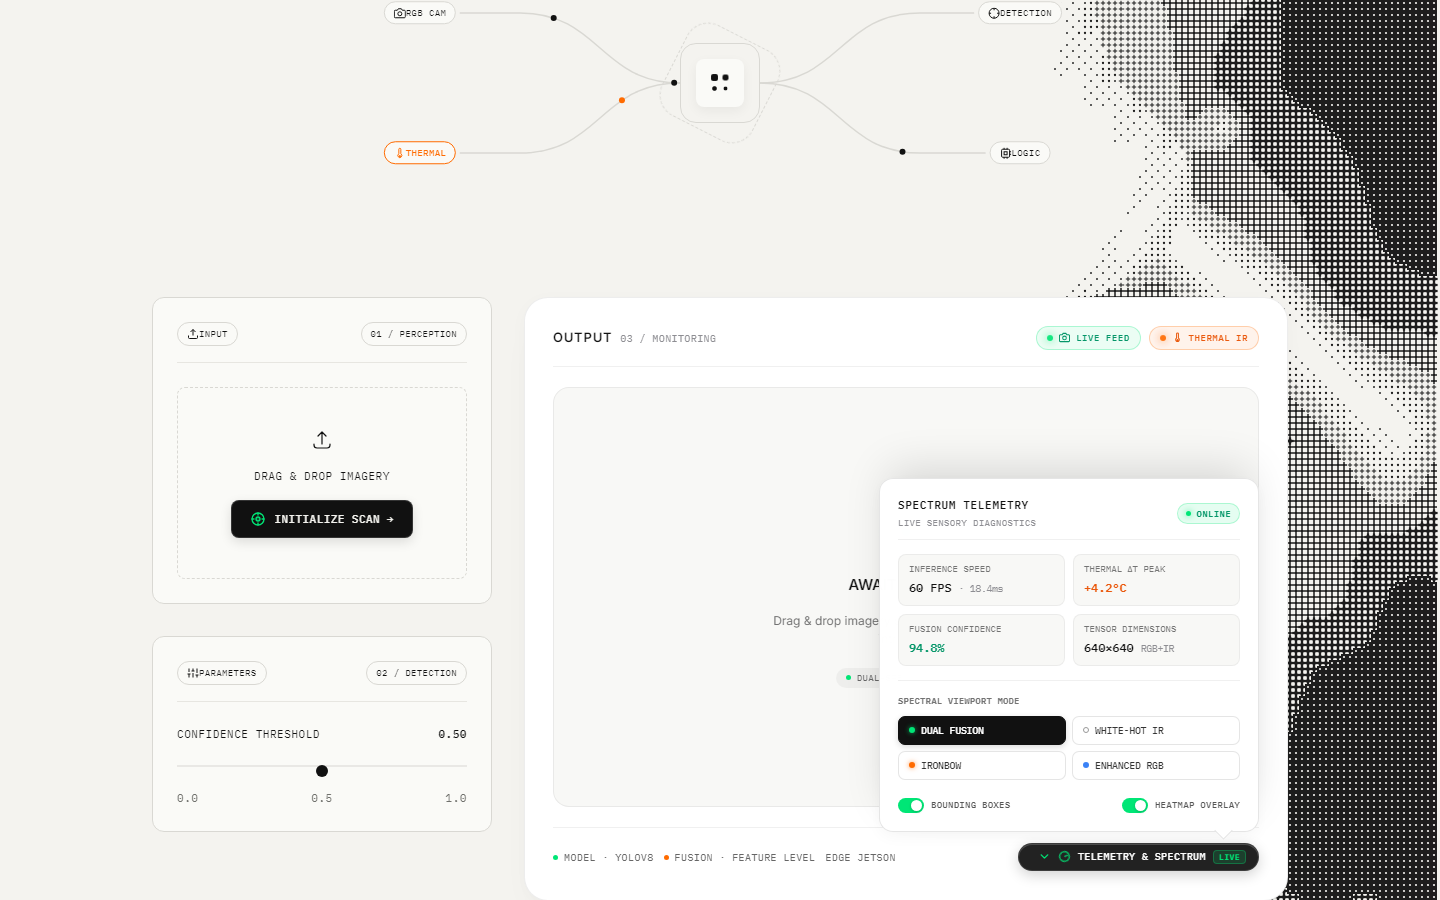
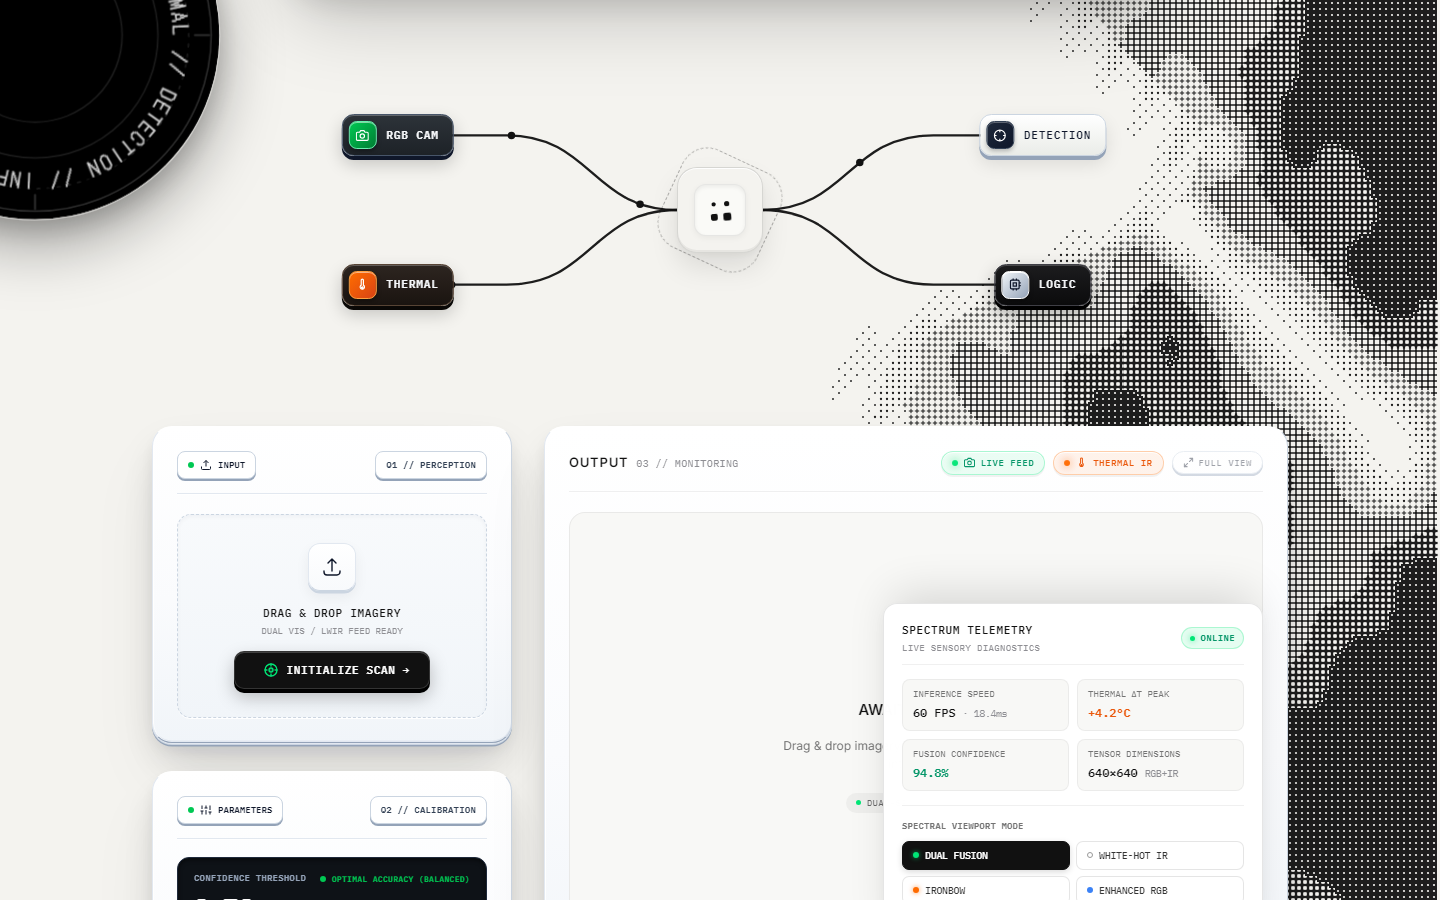
docs(readme): update UI/UX screenshots with current white glass design and responsive mobile views

diff --git a/README.md b/README.md
@@ -174,34 +174,47 @@ Evaluated on **Aug 31, 2026** using `python src/evaluation/evaluate_models.py`.
 
 ---
 
-## 📸 Visual Showcase & Interactive Terminal Screenshots
+## 📸 Visual Showcase & Multi-Platform UI/UX Terminal Views
 
+### 🖥 1. Production Desktop Edge Surveillance Terminal
 <p align="center">
-  <img src="data/samples/web_dashboard_preview.png" alt="Thermal-Visible Border Intrusion Interactive Surveillance Terminal" width="950" height="627" style="max-width: 100%; height: auto; border-radius: 12px; box-shadow: 0 20px 50px rgba(0,0,0,0.5);" />
+  <img src="data/samples/web_dashboard_preview.png" alt="Thermal-Visible Border Intrusion Interactive Surveillance Terminal" width="950" height="594" style="max-width: 100%; height: auto; border-radius: 12px; box-shadow: 0 20px 50px rgba(0,0,0,0.5);" />
 </p>
 <p align="center">
-  <em>Figure 4: Production Edge Web Surveillance Terminal featuring 4D Metallic Board, LiquidChrome WebGL Shader, and Real-Time Intrusion Feeds (1440 × 950 px).</em>
+  <em>Figure 4: Full Desktop Surveillance Terminal featuring 4D Metallic Board, LiquidChrome WebGL Shaders, 2-Tone Perception Cards, and CrossDither Halftone System (1440 × 900 px).</em>
 </p>
 
+### 🎛 2. Attached Sensory Telemetry & Multi-Spectral Palettes Dock
 <p align="center">
   <img src="data/samples/telemetry_spectral_dock.png" alt="Sensory Telemetry and Multi-Spectral Color LUT Dropup Dock" width="950" height="594" style="max-width: 100%; height: auto; border-radius: 12px; box-shadow: 0 20px 50px rgba(0,0,0,0.5);" />
 </p>
 <p align="center">
-  <em>Figure 5: Attached Sensory Telemetry & Spectral Modes Dropup Dock — Atmospheric & Core Sensors with Live Spectral Palettes (1440 × 900 px).</em>
+  <em>Figure 5: Sliding Sensory Telemetry Dock — Live atmospheric sensors, thermal peak metrics, and 6 real-time color LUT palettes (Dual Fusion, White-Hot, Ironbow, Rainbow, Enhanced RGB) (1440 × 900 px).</em>
 </p>
 
+### 🔍 3. Frosted White Glass 3D Full-View Lightbox Terminal (Current Design)
 <p align="center">
-  <img src="data/samples/fullview_modal_preview.png" alt="Frosted White Glass 3D Full-View Lightbox Terminal" width="850" height="488" style="max-width: 100%; height: auto; border-radius: 12px; box-shadow: 0 20px 50px rgba(0,0,0,0.5);" />
+  <img src="data/samples/fullview_modal_preview.png" alt="Frosted White Glass 3D Full-View Lightbox Terminal" width="950" height="594" style="max-width: 100%; height: auto; border-radius: 12px; box-shadow: 0 20px 50px rgba(0,0,0,0.5);" />
 </p>
 <p align="center">
-  <em>Figure 6: High-Resolution 3D Full-View Lightbox Terminal with Frosted White Glassmorphism, Specular Caustic Sheen, and Touch-Out Dismissal (1024 × 588 px).</em>
+  <em>Figure 6: High-Resolution 3D Full-View Lightbox with Frosted White Glassmorphism (`blur(38px)`), Specular Caustic Sheen Sweeps, Micro-Grain Texture, and Touch-Out Dismissal (1440 × 900 px).</em>
 </p>
 
+### 📱 4. Mobile Responsive Multi-Device Views
+<p align="center">
+  <img src="data/samples/ui_mobile_view.png" alt="Mobile Top View with Collision-Aware 3D Badge" width="460" height="995" style="max-width: 48%; height: auto; border-radius: 12px; box-shadow: 0 15px 35px rgba(0,0,0,0.45); display: inline-block; margin-right: 2%;" />
+  <img src="data/samples/ui_mobile_controls.png" alt="Mobile Perception and Calibration Controls" width="460" height="995" style="max-width: 48%; height: auto; border-radius: 12px; box-shadow: 0 15px 35px rgba(0,0,0,0.45); display: inline-block;" />
+</p>
+<p align="center">
+  <em>Figure 7: Responsive Mobile Views (390 × 844 px) — (Left) Fluid Header with 3D Orbiting Badge dynamically gliding to bottom-left corner on collision. (Right) Tactile Confidence Slider, Preset Chips, and Live Feed Monitoring Card.</em>
+</p>
+
+### 🎯 5. Real-Time Polygon Border Breach Detection Result
 <p align="center">
   <img src="data/samples/intrusion_output.jpg" alt="Polygon ROI Border Breach Detection Result" width="950" height="770" style="max-width: 100%; height: auto; border-radius: 12px; box-shadow: 0 20px 50px rgba(0,0,0,0.5);" />
 </p>
 <p align="center">
-  <em>Figure 7: Real-Time Polygon Border Breach Detection Result with Ray-Casting Intrusion Flagging and Dual-Modality Fusion (1920 × 1556 px).</em>
+  <em>Figure 8: Real-Time Multi-Target Polygon Border Breach Detection with Ray-Casting Intrusion Flagging and Dual-Modality Fusion (1920 × 1556 px).</em>
 </p>
 
 ---
@@ -217,15 +230,18 @@ thermal-border-intrusion/
 ├── data/                     # Dataset storage
 │   ├── raw/FLIR/             # Original untouched FLIR ADAS dataset
 │   ├── processed/            # Preprocessed train/val/test splits (YOLO format)
-│   └── samples/              # Preview image grids & training result plots
-│       ├── rgb_thermal_preview.png
-│       ├── rgb_baseline_results.png
-│       ├── rgb_baseline_pr_curve.png
-│       ├── rgb_baseline_detections.jpg
-│       ├── thermal_baseline_results.png
-│       ├── thermal_baseline_pr_curve.png
-│       ├── thermal_baseline_detections.jpg
-│       └── intrusion_output.jpg
+│   └── samples/              # UI/UX screenshots, preview grids & evaluation plots
+│       ├── web_dashboard_preview.png    # Desktop Surveillance Terminal (1440x900)
+│       ├── telemetry_spectral_dock.png  # Telemetry & Spectral Modes Dropup (1440x900)
+│       ├── fullview_modal_preview.png   # Frosted White Glass Full-View Modal (1440x900)
+│       ├── ui_mobile_view.png           # Mobile Top View with Collision Badge (390x844)
+│       ├── ui_mobile_controls.png       # Mobile Controls & Feed View (390x844)
+│       ├── rgb_thermal_preview.png      # Multimodal dataset grid
+│       ├── rgb_baseline_results.png     # RGB training loss & mAP curves
+│       ├── rgb_baseline_pr_curve.png    # RGB PR curve
+│       ├── thermal_baseline_results.png # Thermal training loss & mAP curves
+│       ├── thermal_baseline_pr_curve.png# Thermal PR curve
+│       └── intrusion_output.jpg         # Full-resolution detection result (1920x1556)
 ├── notebooks/                # Jupyter exploration & experiment notebooks
 │   ├── 01_dataset_exploration.ipynb
 │   ├── 02_preprocessing.ipynb
